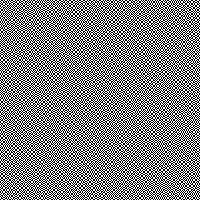
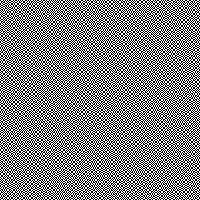
reformating

diff --git a/main.py b/main.py
@@ -12,22 +12,22 @@ def main():
     print(f"Random Sheet: \n {top_layer_array}")
     print(f"Other Sheet: \n {bottom_layer_array}")
     img = create_img_form_array(img_array)
-    img.save('img.png')
+    img.save("img.png")
     top_layer = create_img_form_array(top_layer_array)
     top_layer.save("top_layer.png")
     bottom_layer = create_img_form_array(bottom_layer_array)
-    bottom_layer.save('bottom_layer.png')
+    bottom_layer.save("bottom_layer.png")
     top_and_bottom = join_top_and_bottom_layers(top_layer, bottom_layer)
-    top_and_bottom.save('top_and_bottom.png')
+    top_and_bottom.save("top_and_bottom.png")
 
 
 def create_img_form_array(img_array):
-    zero_image = Image.open('0.png')
-    one_image = Image.open('1.png')
-    two_image = Image.open('2.png')
-    three_image = Image.open('3.png')
+    zero_image = Image.open("0.png")
+    one_image = Image.open("1.png")
+    two_image = Image.open("2.png")
+    three_image = Image.open("3.png")
     img_size = img_array.shape[0] * 2, img_array.shape[1] * 2
-    img = Image.new('RGBA', img_size, (0, 0, 0, 0))
+    img = Image.new("RGBA", img_size, (0, 0, 0, 0))
     for row in range(img_array.shape[0]):
         for column in range(img_array.shape[1]):
             if img_array[row, column] == 0:
@@ -42,7 +42,7 @@ def create_img_form_array(img_array):
 
 
 def join_top_and_bottom_layers(top_layer, bottom_layer):
-    img = Image.new('RGBA', top_layer.size, (0, 0, 0, 255))
+    img = Image.new("RGBA", top_layer.size, (0, 0, 0, 255))
     img.paste(top_layer, bottom_layer)
     img.show()
     return img
